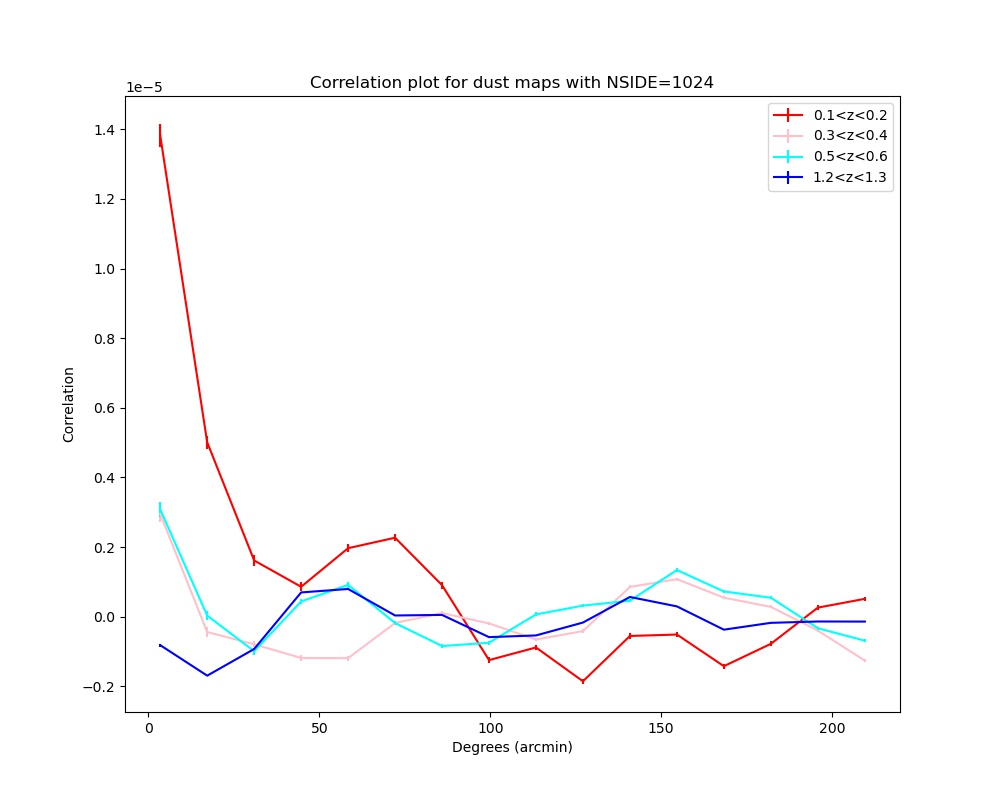
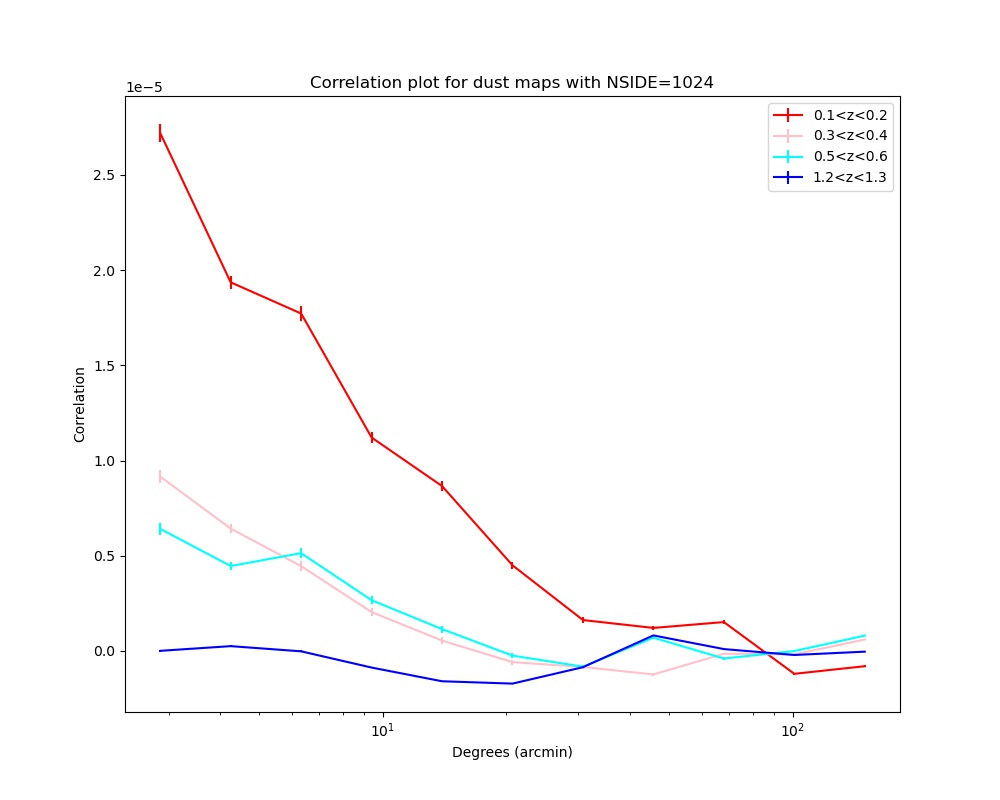
restructuring of repo

diff --git a/code/plot_scripts/plot_corr_script.py b/code/plot_scripts/plot_corr_script.py
@@ -1,0 +1,51 @@
+import sys
+sys.path.append('/Users/williiamlaplante/Research/SynchrotronMaps/code')
+from corrfunc import compute_corr
+import matplotlib.pyplot as plt
+import numpy as np
+from processing import generate_ref_maps, generate_dust_maps
+import healpy as hp
+
+#changed nside to 256 where indicated!!!!!!!!!!
+
+for nside in [256,512,1024]:
+    
+    #Fixing parameters
+    resol = np.degrees(hp.nside2resol(256)) #degrees #HERE
+    dr = 2*resol
+    linear = False
+
+    #retrieving maps
+    ref_dict = generate_ref_maps(nside)
+    dust_map = generate_dust_maps(nside)[0]
+
+    #fixing plotting parameters
+    plt.figure(figsize=(10,8))
+    plt.xlabel('Degrees (arcmin)')
+    plt.ylabel('Correlation')
+    colors = ['red', 'pink', 'cyan', 'blue']
+
+    if linear :
+        x = np.arange(resol, 3.5, dr) #linear scale
+    else:
+        x = np.exp(np.linspace(np.log(resol/1.2), np.log(2.5), np.log2(256)+1)) #log scale #HERE
+        thicknesses = np.append((x[1:]-x[:-1]), (x[-1]-x[-2]))
+
+
+    #computing the correlation values for all reference maps against 1998 dust map
+    for zrange,color in zip(ref_dict,colors):
+        out = [compute_corr(ref_dict[zrange], dust_map, r, thick) for r,thick in zip(x,thicknesses)]
+        y,err = zip(*out)
+        plt.errorbar(x*60,list(y),yerr=list(err), color=color, label=zrange)
+
+    
+    plt.legend()
+    plt.title('Correlation plot for dust maps with NSIDE='+str(nside))
+
+    if linear:
+        plt.xscale('linear')
+    else:
+        plt.xscale('log')
+
+    plt.savefig('temp/corr_dust_maps_'+str(nside)+'_fixed_bin_width'+'.jpg') #HERE
+    plt.clf()

diff --git a/code/tests/test_corrfunc.py b/code/tests/test_corrfunc.py
@@ -1,3 +1,5 @@
+import sys
+sys.path.append('/Users/williiamlaplante/Research/SynchrotronMaps/code')
 import unittest
 from corrfunc import compute_corr, query_annulus
 import numpy as np
